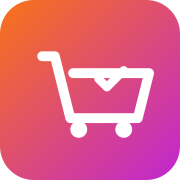
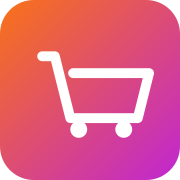
Fix getClientAddress-krasch och uppdatera ikoner
getClientAddress() kastade undantag i produktion vilket orsakade
500-fel vid inloggning och registrering. Ersatt med safeGetClientAddress()
som faller tillbaka på x-forwarded-for-headern om funktionen inte fungerar.

Ta även bort bockmarkering från kundvagnsikonen i static/ och regenerera
PNG-ikonerna från uppdaterad SVG.

Changed region(s): [[0.5278, 0.4167, 0.6944, 0.5278], [0.6667, 0.3611, 0.7222, 0.3889]]

diff --git a/src/routes/api/auth/+server.js b/src/routes/api/auth/+server.js
@@ -48,7 +48,17 @@ export async function GET({ cookies }) {
 const LOGIN_MAX_ATTEMPTS = 10;
 const LOGIN_WINDOW_MS = 15 * 60 * 1000;
 
-export async function POST({ request, cookies, getClientAddress }) {
+/** @param {import('@sveltejs/kit').RequestEvent} event */
+function safeGetClientAddress(event) {
+    try {
+        return event.getClientAddress();
+    } catch {
+        return event.request.headers.get('x-forwarded-for')?.split(',')[0]?.trim() ?? 'unknown';
+    }
+}
+
+export async function POST(event) {
+    const { request, cookies } = event;
     const body = await request.json();
     const { action } = body;
     const db = await getDb();
@@ -66,7 +76,7 @@ export async function POST({ request, cookies, getClientAddress }) {
     }
 
     if (action === 'register') {
-        const ip = getClientAddress();
+        const ip = safeGetClientAddress(event);
         const regKey = `register:${ip}`;
         const regSince = new Date(Date.now() - LOGIN_WINDOW_MS);
         const regCount = await db.collection('login_attempts').countDocuments({ key: regKey, at: { $gt: regSince } });
@@ -114,7 +124,7 @@ export async function POST({ request, cookies, getClientAddress }) {
     }
 
     if (action === 'login') {
-        const ip = getClientAddress();
+        const ip = safeGetClientAddress(event);
         const rateLimitKey = `login:${ip}`;
         const since = new Date(Date.now() - LOGIN_WINDOW_MS);
         const attempts = await db.collection('login_attempts').countDocuments({ key: rateLimitKey, at: { $gt: since } });
